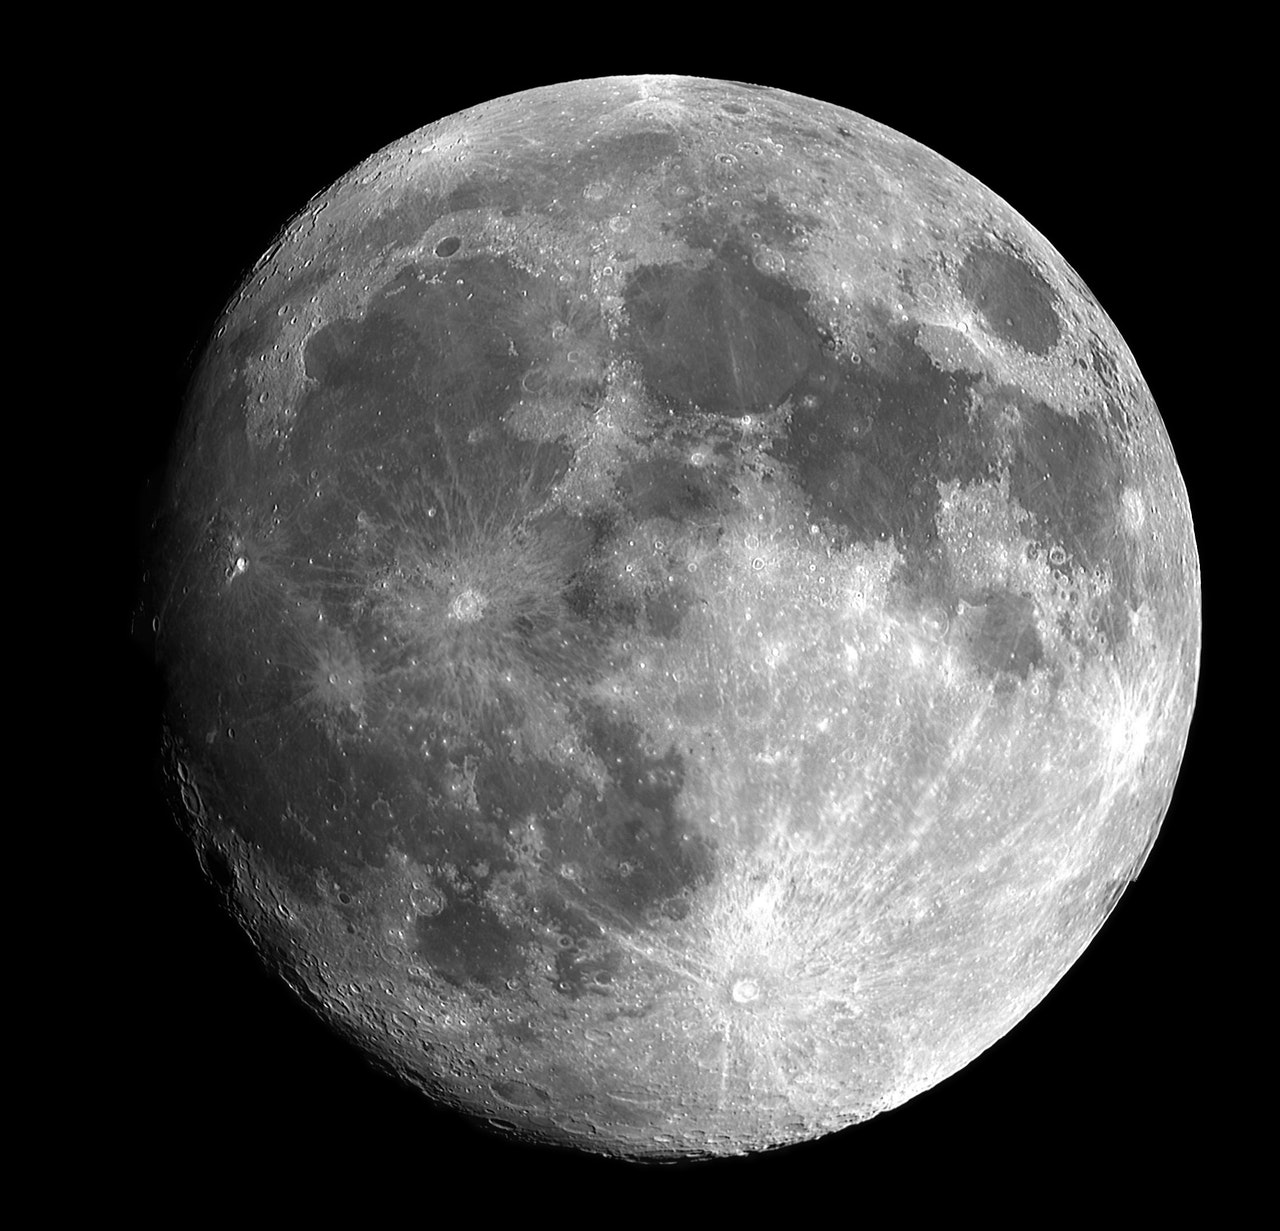
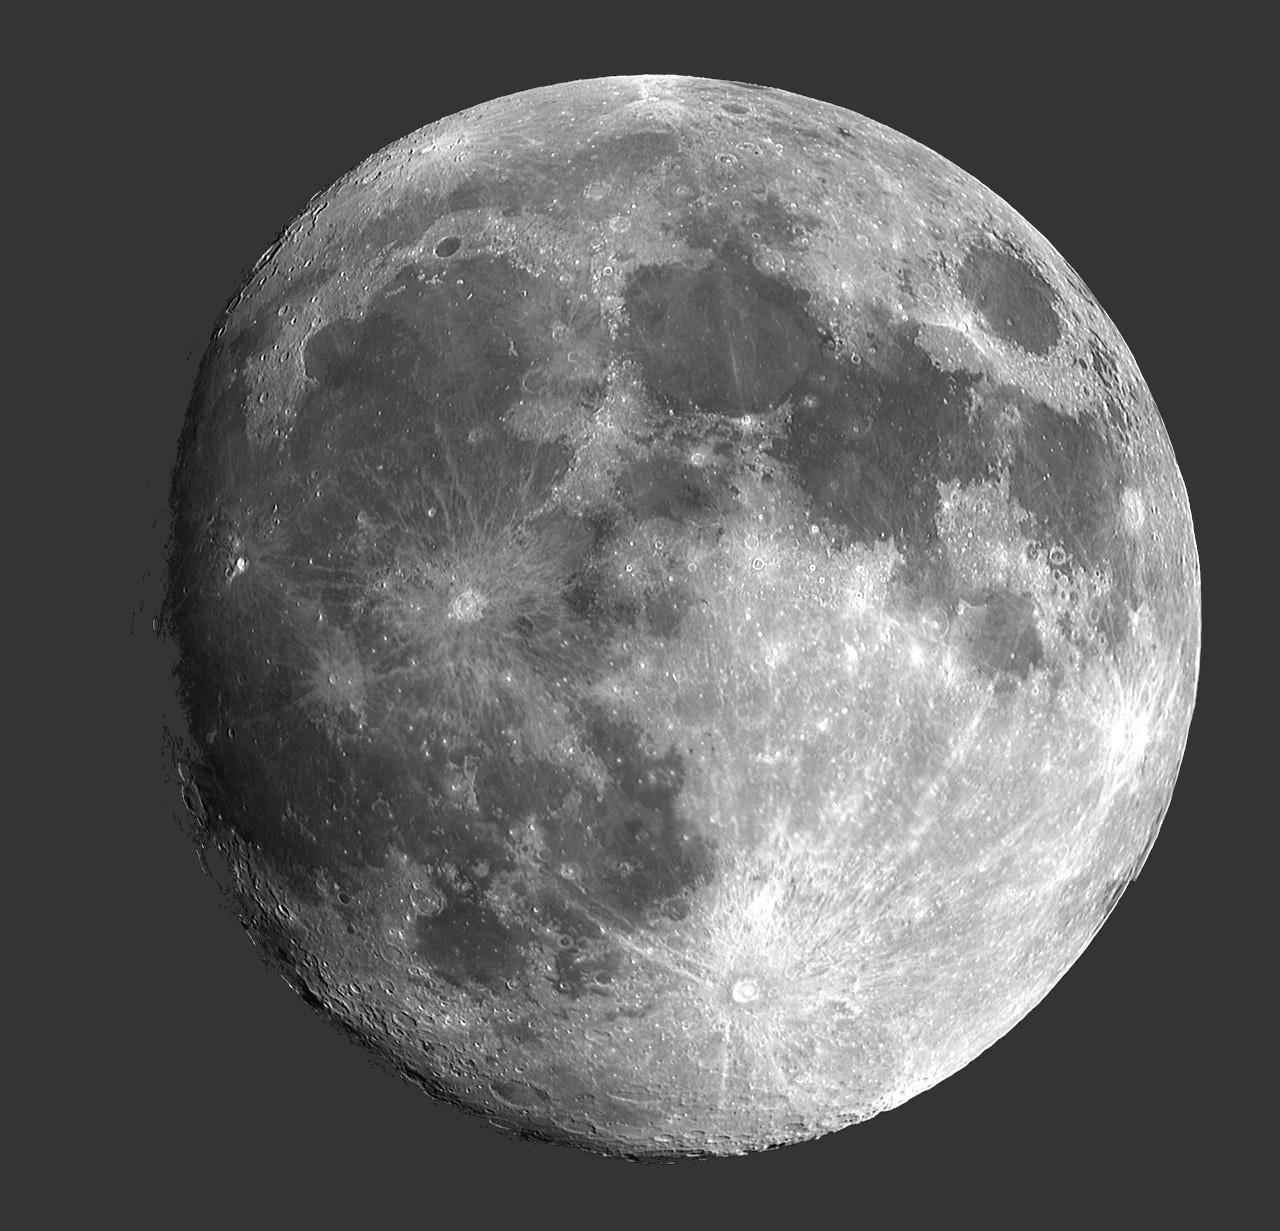
some style fixes to moon website

diff --git a/moon website design/style.css b/moon website design/style.css
@@ -14,7 +14,7 @@
     width: 100vw;
     background-size: 40%;
     background-repeat: no-repeat;
-    background-color: #000000;
+    background-color: #353434;
     background-position: right top 20%;
 
     padding-top: 5%;
